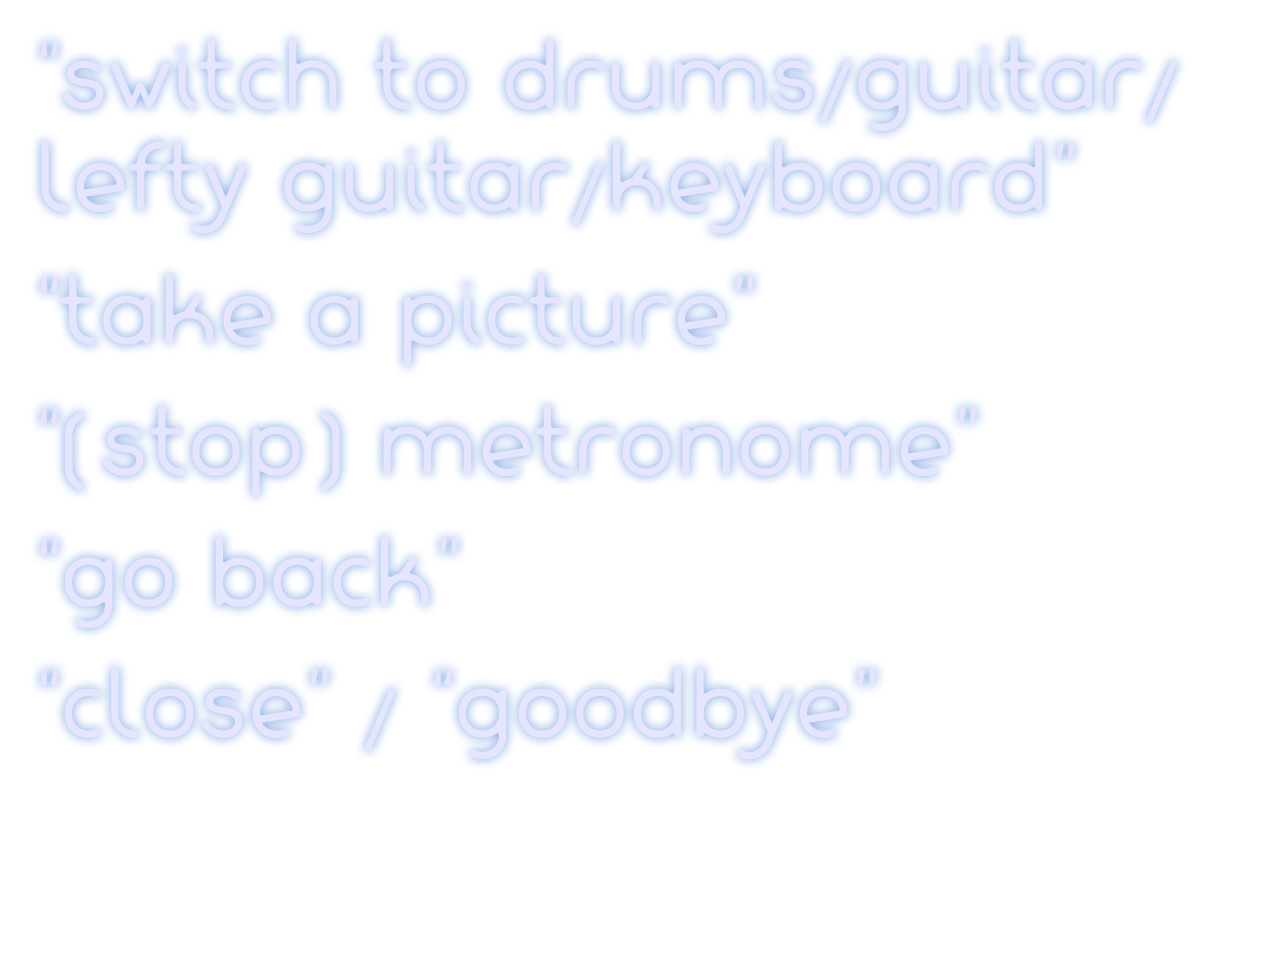
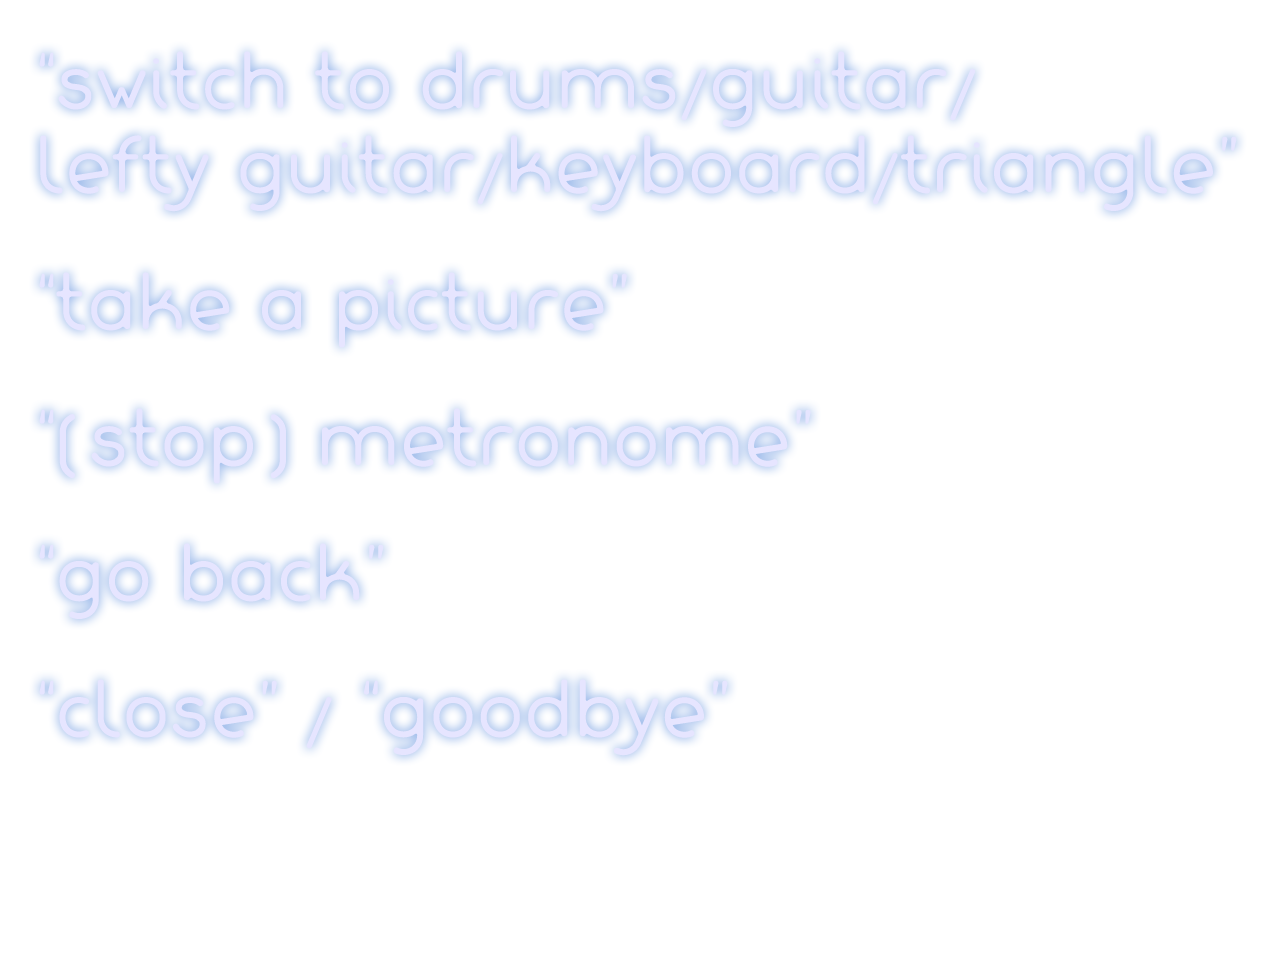
Added triangle to Kinect Guide menu and voice

diff --git a/instrument.xaml b/instrument.xaml
@@ -265,7 +265,7 @@
                     <GradientStop Color="#00000000" Offset="1"/>
                 </LinearGradientBrush>
             </Canvas.OpacityMask>
-            <Rectangle Canvas.Left="0" Canvas.Top="-200" Height="900" Name="rectangle1" Stroke="Black" Width="640" />
+            <Rectangle Canvas.Left="0" Canvas.Top="-260" Height="960" Name="rectangle1" Stroke="Black" Width="640" />
             <Canvas Canvas.Left="0" Canvas.Top="0" Height="480" Name="kinectGuideCanvas" Width="158" RenderTransformOrigin="0.5,0.5" Visibility="Hidden">
                 <Image Canvas.Left="0" Canvas.Top="220" Height="41" Name="imgKinectGuide1" Stretch="Fill" Width="250" Source="/Moto;component/images/menu-items/cancel.png" />
                 <Image Canvas.Left="0" Canvas.Top="160" Height="41" Name="imgKinectGuide2" Source="/Moto;component/images/menu-items/backtostart.png" Stretch="Fill" Width="250" />
@@ -275,6 +275,7 @@
                 <Image Canvas.Left="0" Canvas.Top="-80" Height="41" Name="imgKinectGuide6" Source="/Moto;component/images/menu-items/leftyguitar.png" Stretch="Fill" Width="250" />
                 <Image Canvas.Left="0" Canvas.Top="-140" Height="41" Name="imgKinectGuide7" Source="/Moto;component/images/menu-items/drums.png" Stretch="Fill" Width="250" />
                 <Image Canvas.Left="0" Canvas.Top="-200" Height="41" Name="imgKinectGuide8" Source="/Moto;component/images/menu-items/keyboard.png" Stretch="Fill" Width="250" />
+                <Image Canvas.Left="0" Canvas.Top="-260" Height="41" Name="imgKinectGuide9" Source="/Moto;component/images/menu-items/triangle.png" Stretch="Fill" Width="250" />
             </Canvas>
         </Canvas>
         <Image x:Name="imgPrimaryGlowLeft" Height="76" Source="images/glowing-point.png" Stretch="Fill" Width="76" Visibility="Hidden" />

diff --git a/instrument.xaml.cs b/instrument.xaml.cs
@@ -156,6 +156,7 @@ namespace Moto
             voiceVisuals.Add(SpeechRecognizer.Verbs.GuitarSwitch, new BitmapImage(new Uri("/Moto;component/images/voice/switchtoguitar.png", UriKind.Relative)));
             voiceVisuals.Add(SpeechRecognizer.Verbs.LeftyGuitarSwitch, new BitmapImage(new Uri("/Moto;component/images/voice/switchtoleftyguitar.png", UriKind.Relative)));
             voiceVisuals.Add(SpeechRecognizer.Verbs.KeyboardSwitch, new BitmapImage(new Uri("/Moto;component/images/voice/switchtokeyboard.png", UriKind.Relative)));
+            voiceVisuals.Add(SpeechRecognizer.Verbs.TriangleSwitch, new BitmapImage(new Uri("/Moto;component/images/voice/switchtotriangle.png", UriKind.Relative)));
             voiceVisuals.Add(SpeechRecognizer.Verbs.StartMetronome, new BitmapImage(new Uri("/Moto;component/images/voice/metronome.png", UriKind.Relative)));
             voiceVisuals.Add(SpeechRecognizer.Verbs.StopMetronome, new BitmapImage(new Uri("/Moto;component/images/voice/stopmetronome.png", UriKind.Relative)));
             voiceVisuals.Add(SpeechRecognizer.Verbs.BackToInstruments, new BitmapImage(new Uri("/Moto;component/images/voice/backtoinstruments.png", UriKind.Relative)));
@@ -481,6 +482,7 @@ namespace Moto
                 case SpeechRecognizer.Verbs.GuitarSwitch:
                 case SpeechRecognizer.Verbs.LeftyGuitarSwitch:
                 case SpeechRecognizer.Verbs.KeyboardSwitch:
+                case SpeechRecognizer.Verbs.TriangleSwitch:
                 case SpeechRecognizer.Verbs.StartMetronome:
                 case SpeechRecognizer.Verbs.StopMetronome:
                 case SpeechRecognizer.Verbs.KinectUp:
@@ -630,6 +632,12 @@ namespace Moto
                     if (MainWindow.activeSkeletons.ContainsKey(MainWindow.primarySkeletonKey))
                     {
                         switchInstrument(MainWindow.activeSkeletons[MainWindow.primarySkeletonKey], instrumentList.Keyboard);
+                    }
+                    break;
+                case SpeechRecognizer.Verbs.TriangleSwitch:
+                    if (MainWindow.activeSkeletons.ContainsKey(MainWindow.primarySkeletonKey))
+                    {
+                        switchInstrument(MainWindow.activeSkeletons[MainWindow.primarySkeletonKey], instrumentList.Triangle);
                     }
                     break;
                 case SpeechRecognizer.Verbs.StartMetronome:
@@ -1313,6 +1321,10 @@ namespace Moto
                 case instrumentList.Keyboard:
                     keyArea.Remove(player.skeleton.TrackingId);
                     insideKey.Remove(player.skeleton.TrackingId);
+                    break;
+                case instrumentList.Triangle:
+                    triangleArea.Remove(player.skeleton.TrackingId);
+                    insideTriangleArea.Remove(player.skeleton.TrackingId);
                     break;
             }
         }

diff --git a/Speech.cs b/Speech.cs
@@ -59,6 +59,7 @@ namespace Moto.Speech
                 { "Switch to Lefty Guitar", new WhatSaid { Verb = Verbs.LeftyGuitarSwitch } },
                 { "Switch to Drums", new WhatSaid { Verb = Verbs.DrumsSwitch } },
                 { "Switch to Keyboard", new WhatSaid { Verb = Verbs.KeyboardSwitch } },
+                { "Switch to Triangle", new WhatSaid { Verb = Verbs.TriangleSwitch } },
                 { "Take a Picture", new WhatSaid { Verb = Verbs.Capture } },
                 { "Metronome", new WhatSaid { Verb = Verbs.StartMetronome } },
                 { "Stop Metronome", new WhatSaid { Verb = Verbs.StopMetronome } },
@@ -159,6 +160,7 @@ namespace Moto.Speech
             LeftyGuitarSwitch,
             DrumsSwitch,
             KeyboardSwitch,
+            TriangleSwitch,
             StartMetronome,
             StopMetronome,
             BackToInstruments,
